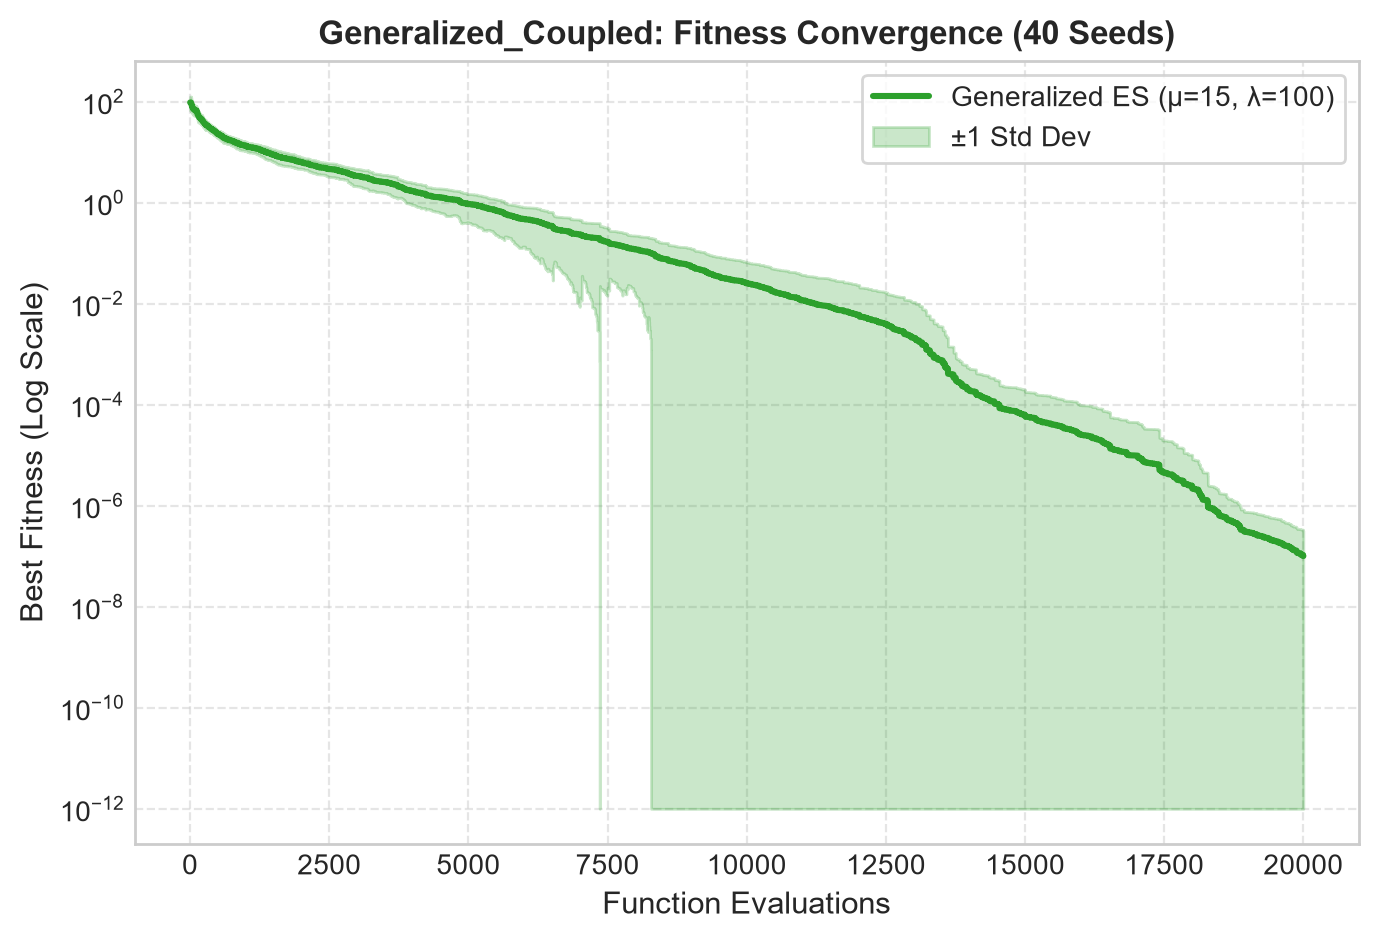
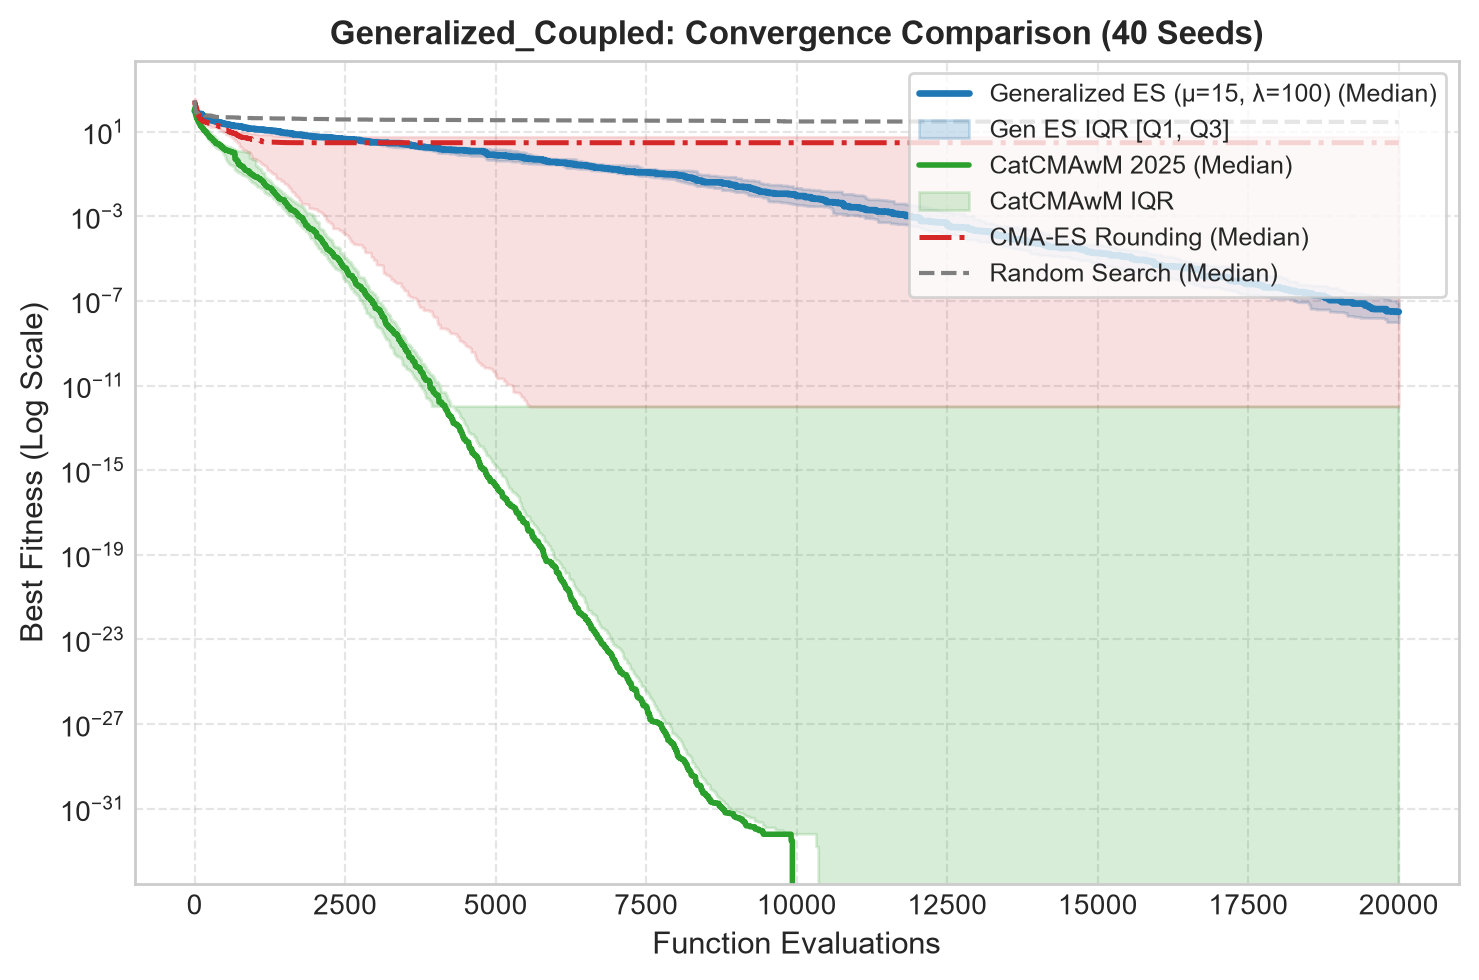
feat(exp3): update notebook and convergence figures with 4 methods

diff --git a/experiments/experiment_3/runners/run_experiment_3.py b/experiments/experiment_3/runners/run_experiment_3.py
@@ -27,7 +27,9 @@ from src.benchmarks.generalized_functions import GENERALIZED_BENCHMARKS
 from src.es_model.config import ESConfig
 from experiments.experiment_3.runners.runners import (
     run_heterogeneous_benchmark_suite,
+    load_heterogeneous_benchmark_suite,
     run_heterogeneous_dynamics_tracking,
+    load_heterogeneous_dynamics_tracking,
     build_heterogeneous_summary_table,
 )
 from experiments.experiment_3.runners.plotting import (
@@ -175,6 +177,7 @@ def main():
     parser.add_argument("--n-seeds", type=int, default=40)
     parser.add_argument("--max-workers", type=int, default=8)
     parser.add_argument("--output-dir", type=str, default="experiments/experiment_3")
+    parser.add_argument("--load-precomputed", action="store_true", help="Load precomputed traces and dynamics from data/ instead of re-running simulations.")
     args = parser.parse_args()
 
     seeds = [42 + i * 101 for i in range(args.n_seeds)]
@@ -197,33 +200,43 @@ def main():
         seed=42,
     )
 
-    print(f"Running heterogeneous benchmark suite ({args.n_seeds} seeds, max_evals={args.max_evals})...")
-    results = run_heterogeneous_benchmark_suite(
-        benchmarks=GENERALIZED_BENCHMARKS,
-        config=config,
-        max_evals=args.max_evals,
-        seeds=seeds,
-        data_dir=data_dir,
-        max_workers=args.max_workers,
-    )
+    if args.load_precomputed:
+        print(f"Loading precomputed benchmark suite and dynamics from {data_dir}...")
+        results = load_heterogeneous_benchmark_suite(data_dir, GENERALIZED_BENCHMARKS)
+        if results is None:
+            raise FileNotFoundError(f"Missing traces at {data_dir}/exp3_traces.npz")
+        all_saved_data, bench_dynamics = load_heterogeneous_dynamics_tracking(data_dir, GENERALIZED_BENCHMARKS)
+    else:
+        print(f"Running heterogeneous benchmark suite ({args.n_seeds} seeds, max_evals={args.max_evals})...")
+        results = run_heterogeneous_benchmark_suite(
+            benchmarks=GENERALIZED_BENCHMARKS,
+            config=config,
+            max_evals=args.max_evals,
+            seeds=seeds,
+            data_dir=data_dir,
+            max_workers=args.max_workers,
+        )
 
+        print(f"\nRunning heterogeneous strategy dynamics tracking ({args.n_seeds} seeds)...")
+        all_saved_data, bench_dynamics = run_heterogeneous_dynamics_tracking(
+            benchmarks=GENERALIZED_BENCHMARKS,
+            config=config,
+            seeds=seeds,
+            max_evals=args.max_evals,
+            data_dir=data_dir,
+            max_workers=args.max_workers,
+        )
+
+    # Plot convergence curves comparing all 4 methods
+    baselines_npz_path = os.path.join(data_dir, "random_search_baselines.npz")
     plot_heterogeneous_convergence(
         results=results,
         max_evals=args.max_evals,
         config=config,
         n_seeds=args.n_seeds,
         save_dir=fig_dir,
+        baselines_path=baselines_npz_path,
         show=False,
-    )
-
-    print(f"\nRunning heterogeneous strategy dynamics tracking ({args.n_seeds} seeds)...")
-    all_saved_data, bench_dynamics = run_heterogeneous_dynamics_tracking(
-        benchmarks=GENERALIZED_BENCHMARKS,
-        config=config,
-        seeds=seeds,
-        max_evals=args.max_evals,
-        data_dir=data_dir,
-        max_workers=args.max_workers,
     )
 
     for bench_name, b_agg in bench_dynamics.items():
